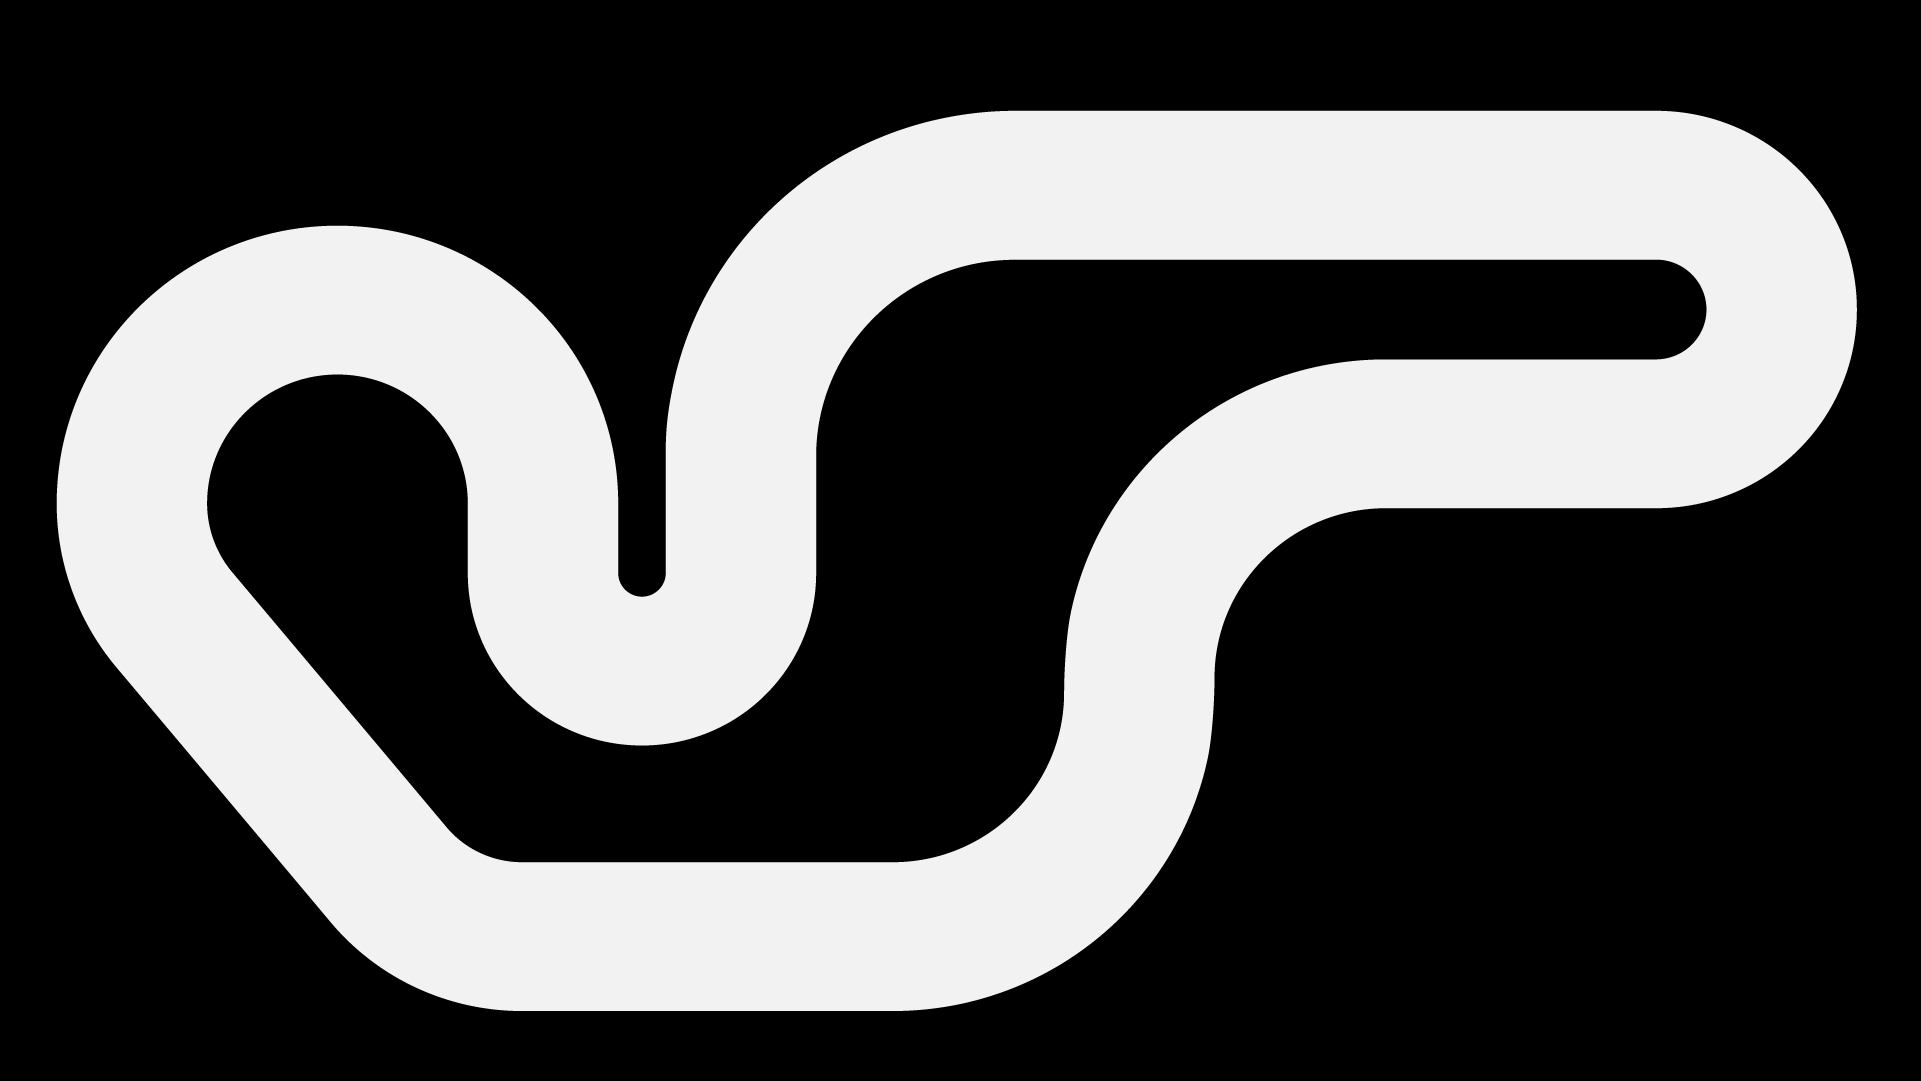
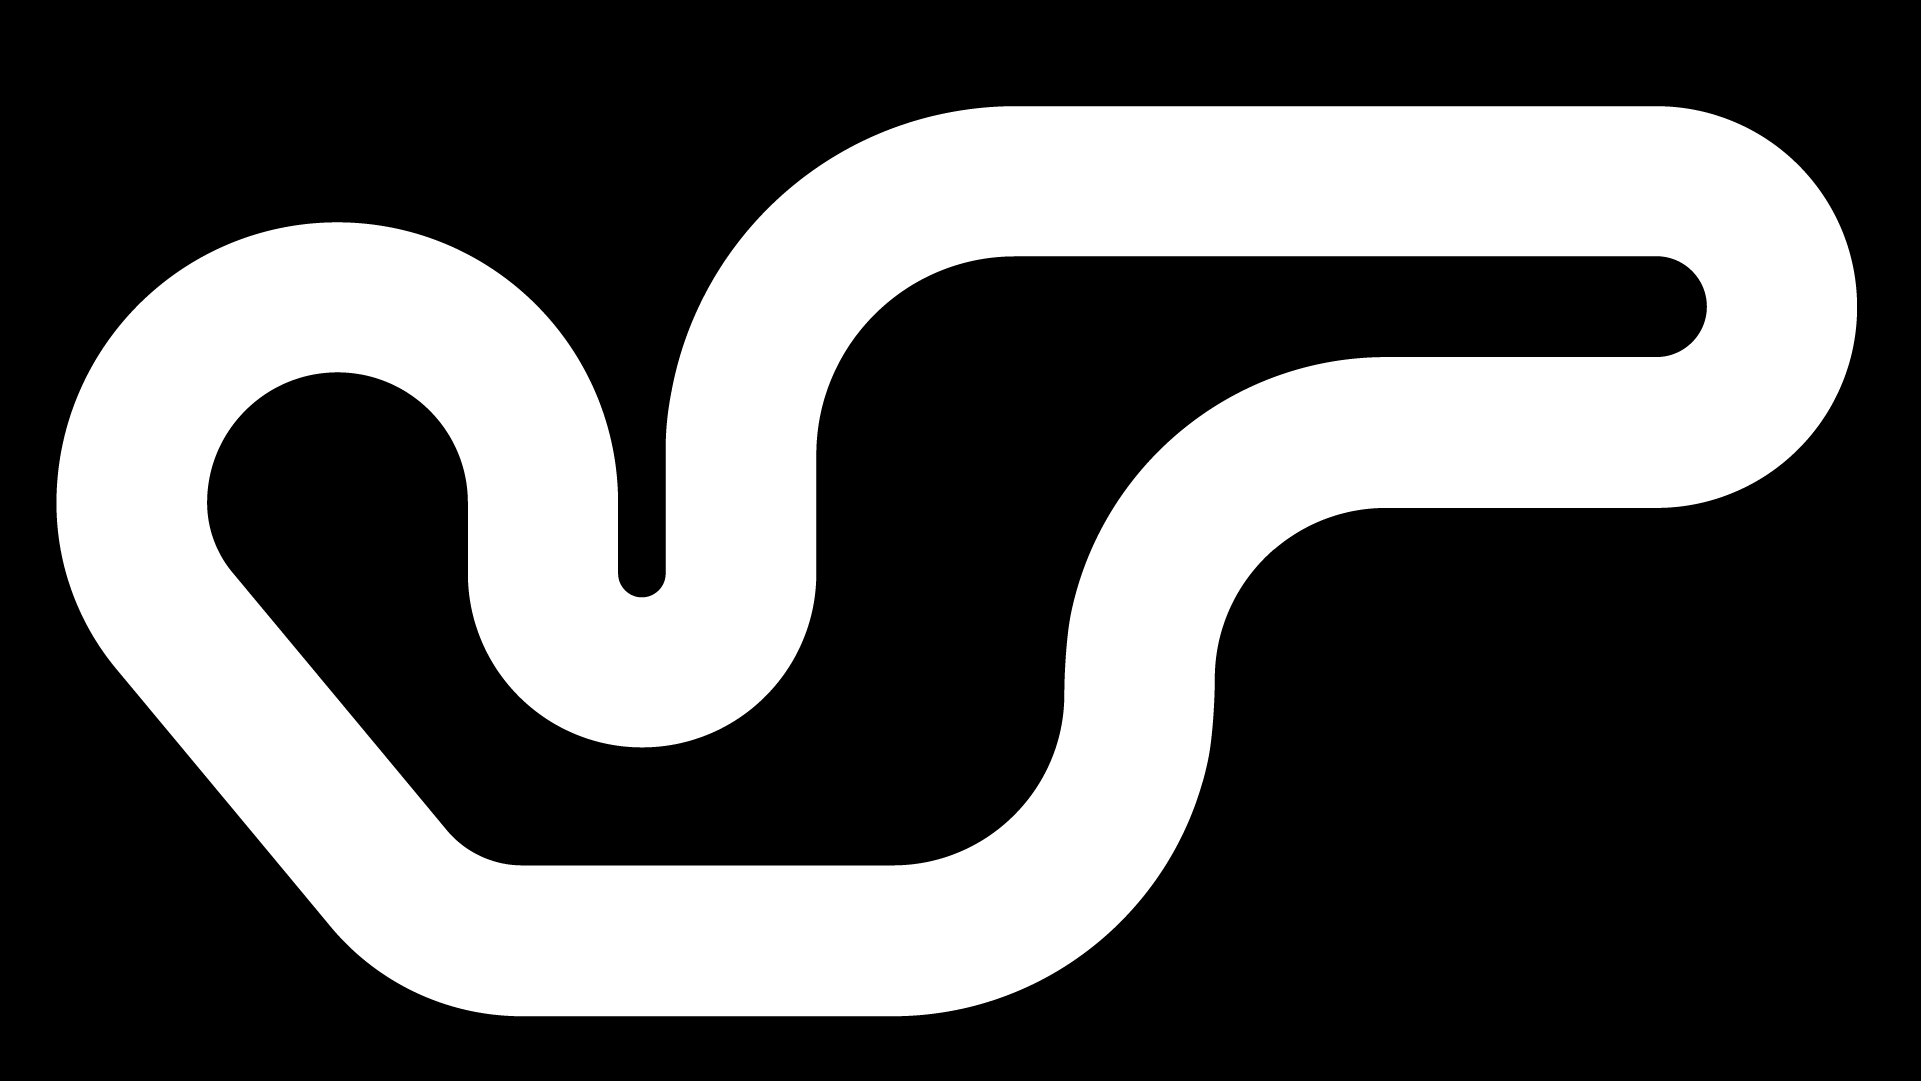
separate track and background

diff --git a/src/assets.cpp b/src/assets.cpp
@@ -3,7 +3,7 @@
 void Assets::loadAssets(){
     loadImage(&collisionMap, "images/map.png");
     loadImage(&progressMap, "images/progess-map.png");
-    loadImage(&backgroundImg, "images/background.png");
+    loadImage(&backgroundImg, "images/background-track-only.png");
     
     loadImage(&bike1, "images/bikes/bike1.png");
     loadImage(&bike2, "images/bikes/bike2.png");

diff --git a/src/ofApp.cpp b/src/ofApp.cpp
@@ -19,8 +19,10 @@ void ofApp::setup(){
 void ofApp::draw(){
     
     outputFbo.begin();
+    ofEnableBlendMode(OF_BLENDMODE_ALPHA);
     ofClear(0);
     app->draw();
+    ofDisableBlendMode();
     outputFbo.end();
     
     syphon.publishTexture(&outputFbo.getTexture());
